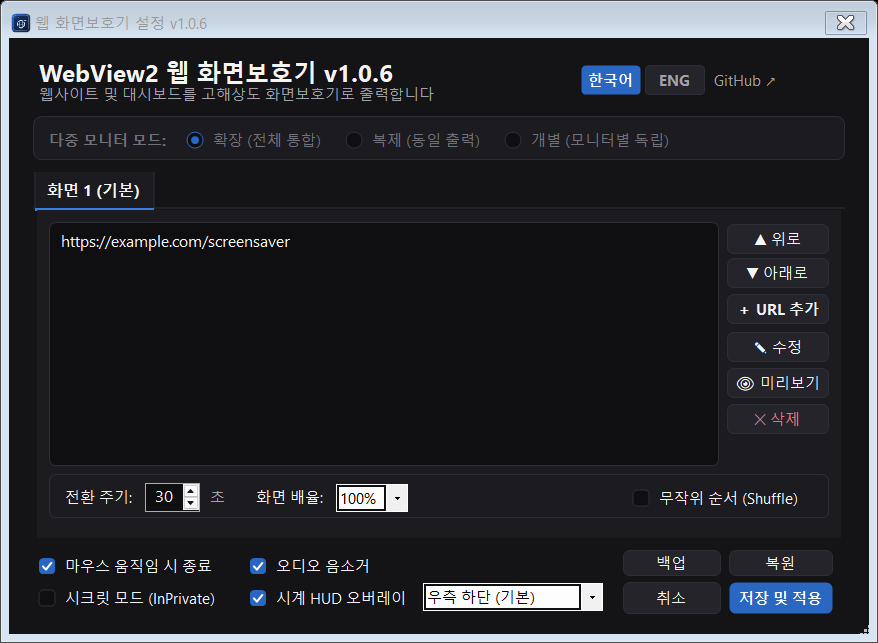
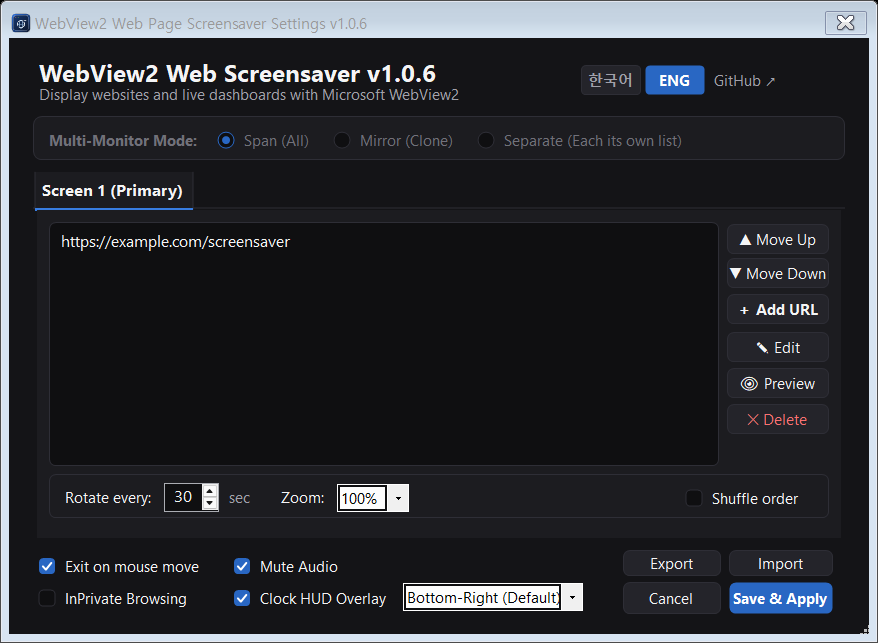
docs(assets): GitHub 공개 미리보기를 영문 버전으로 전환 및 업데이트 뱃지 시연 에셋 추가

diff --git a/AssetScreenshotGenerator.cs b/AssetScreenshotGenerator.cs
@@ -35,12 +35,12 @@ namespace Web_Page_Screensaver
                 form.TopMost = true;
                 form.Show();
 
-                // 1. 개인 설정 대신 안전한 예시 URL 주입 및 UI 정리
+                // 1. 개인 설정 대신 안전한 예시 URL 주입 및 영문(기본) 설정
                 form.PrepareForScreenshot("https://example.com/screensaver");
                 Application.DoEvents();
                 Thread.Sleep(200);
 
-                // 2. 다크 모드 테마 캡처
+                // 2. 영문(English) 다크 모드 테마 캡처 (GitHub 기본 표시용)
                 ThemeManager.IsLightTheme = false;
                 form.ApplyTheme(false);
                 form.Refresh();
@@ -48,10 +48,10 @@ namespace Web_Page_Screensaver
                 Thread.Sleep(200);
 
                 CaptureFormWindow(form, Path.Combine(outputDirectory, "screenshot_dark.png"));
-                // screenshot.png는 기본 다크 모드 스크린샷과 동일
                 CaptureFormWindow(form, Path.Combine(outputDirectory, "screenshot.png"));
+                CaptureFormWindow(form, Path.Combine(outputDirectory, "screenshot_en.png"));
 
-                // 3. 라이트 모드 테마 캡처
+                // 3. 영문(English) 라이트 모드 테마 캡처
                 ThemeManager.IsLightTheme = true;
                 form.ApplyTheme(true);
                 form.Refresh();
@@ -60,15 +60,33 @@ namespace Web_Page_Screensaver
 
                 CaptureFormWindow(form, Path.Combine(outputDirectory, "screenshot_light.png"));
 
-                // 4. 영문 모드 캡처 (다국어 UI 문구 간섭 및 겹침 자가 검증용)
-                form.ApplyLanguage("en");
+                // 4. 영문 업데이트 알림 뱃지(Update Badge) 시연 캡처
+                ThemeManager.IsLightTheme = false;
+                form.ApplyTheme(false);
+                form.SetUpdateNoticeForDemo("1.0.7");
+                form.Refresh();
+                Application.DoEvents();
+                Thread.Sleep(200);
+
+                CaptureFormWindow(form, Path.Combine(outputDirectory, "screenshot_update_badge.png"));
+
+                // 5. 한국어(Korean) 모드 캡처
+                form.ApplyLanguage("ko");
                 ThemeManager.IsLightTheme = false;
                 form.ApplyTheme(false);
                 form.Refresh();
                 Application.DoEvents();
                 Thread.Sleep(200);
 
-                CaptureFormWindow(form, Path.Combine(outputDirectory, "screenshot_en.png"));
+                CaptureFormWindow(form, Path.Combine(outputDirectory, "screenshot_ko_dark.png"));
+
+                ThemeManager.IsLightTheme = true;
+                form.ApplyTheme(true);
+                form.Refresh();
+                Application.DoEvents();
+                Thread.Sleep(200);
+
+                CaptureFormWindow(form, Path.Combine(outputDirectory, "screenshot_ko_light.png"));
 
                 // 정리
                 form.DialogResult = DialogResult.Cancel;

diff --git a/PreferencesForm.cs b/PreferencesForm.cs
@@ -332,7 +332,18 @@ namespace Web_Page_Screensaver
             cmbClockPosition.Enabled = true;
             cmbClockPosition.SelectedIndex = 0;
             btnUpdateNotice.Visible = false;
-            ApplyLanguage("ko");
+            ApplyLanguage("en");
+        }
+
+        /// <summary>
+        /// 스크린샷 및 시연용으로 새 버전 업데이트 알림 배지를 활성화합니다.
+        /// </summary>
+        public void SetUpdateNoticeForDemo(string version = "1.0.7", string url = "https://github.com/muro-dot/Webview2_WebPage_Screensaver/releases")
+        {
+            btnUpdateNotice.Text = $"🚀 New: v{version}";
+            btnUpdateNotice.Tag = url;
+            btnUpdateNotice.Visible = true;
+            btnUpdateNotice.BringToFront();
         }
 
         private void LoadValuesForTab(int screenNum)

diff --git a/.agents/rules/ui_layout_verification.md b/.agents/rules/ui_layout_verification.md
@@ -14,3 +14,8 @@
    - 인접 컨트롤 간 및 버튼과의 사이에 최소 16px 이상의 안전 여백을 확보하며, 공간이 부족할 경우 폼 크기를 확장하거나 레이아웃 구조를 모듈화하여 재배치한다.
 4. **재귀적 자가 수정 루프**:
    - 스크린샷 검토 시 미세한 간섭이나 겹침이 발견되면 즉시 코드를 수정하고, 다시 빌드 및 스크린샷 생성을 수행하여 시각적으로 완벽함을 확인한 후에만 완료 보고를 진행한다.
+
+## 3. GitHub 미리보기 이미지 영문 게시 원칙
+- **GitHub 공개 미리보기는 항상 영문(English) 기준**:
+  - `README.md`, GitHub Release 및 저장소 미리보기로 노출되는 에셋(`screenshot.png`, `screenshot_dark.png`, `screenshot_light.png`)은 해외 유저 및 글로벌 공개 환경을 고려하여 **항상 영문(ENG) 버전**으로 생성·게시한다.
+  - 한국어 버전은 다국어 검증 및 보조용(`screenshot_ko_dark.png`, `screenshot_ko_light.png`)으로 격리 관리한다.

diff --git a/README.md b/README.md
@@ -43,6 +43,12 @@ A Fork of the old archived project [ZenProjects/Chromium-Web-Page-Screensaver](h
 - Right click the `.scr` file, select `Install` to install, or `Test` to test it out
 - Use the `Settings...` button to configure your custom URLs.
 
+### Preview (Dark Mode / Light Mode)
+
+| Dark Mode | Light Mode |
+| :---: | :---: |
+| <img width="420" alt="Dark Mode" src="assets/screenshot_dark.png" /> | <img width="420" alt="Light Mode" src="assets/screenshot_light.png" /> |
+
 # WebView2 웹 페이지 화면 보호기 (Web Page Screensaver)
 
 이 프로젝트는 오래된 [ZenProjects/Chromium-Web-Page-Screensaver](https://github.com/ZenProjects/Chromium-Web-Page-Screensaver) 프로젝트를 포크하여 개선한 버전입니다. 기존의 [CefSharp WinForms](https://github.com/cefsharp/CefSharp) 대신 **Microsoft Edge WebView2 (Chromium)** 엔진을 사용하여 웹 페이지를 화면 보호기로 부드럽고 선명하게 출력합니다.

diff --git a/AGENTS.md b/AGENTS.md
@@ -17,3 +17,7 @@
 - **에러처리**: 예외 상황을 항상 고려하여 코드를 작성할 것.
 - **두괄식 답변**: [결론] -> [상세 설명] 순서로 작성할 것.
 - **빌드 완료 시 알림음**: 최종 빌드 완료 후 딩동 사운드를 1회 재생하고 GitHub에 커밋 및 푸시할 것.
+
+## 3. GitHub Preview Assets Rule (깃헙 미리보기 영문 게시 원칙)
+- **미리보기 이미지 영문 게시 필수**: GitHub 리포지토리(README.md, Release 페이지, Wiki 등)에 공개 게시되는 모든 기본 미리보기 이미지(`assets/screenshot.png`, `assets/screenshot_dark.png`, `assets/screenshot_light.png`)는 **항상 영문(English) 버전**으로 생성 및 게시해야 한다.
+- 한국어 스크린샷은 다국어 검증용 보조 에셋(`screenshot_ko_dark.png`, `screenshot_ko_light.png`)으로 분리 관리한다.
